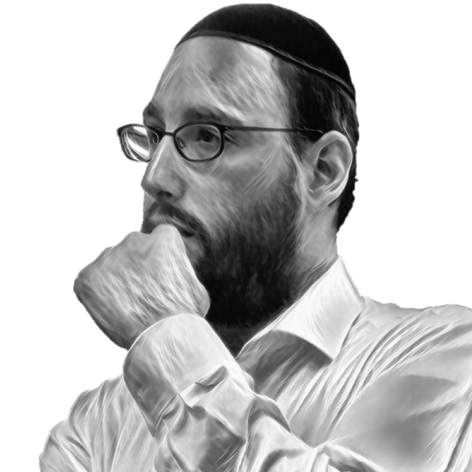
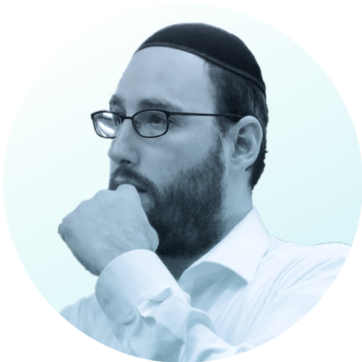
Changed photo, hide column on mobile

diff --git a/src/template/skills-business.html b/src/template/skills-business.html
@@ -2,7 +2,7 @@
   <div class="container">
     <h3 class="text-center">Skills by Business Anatomy</h3>
     <div class="skills-grid mt-32">
-      <div class="skills-inner-grid">
+      <div class="skills-inner-grid d-none d-md-grid">
         <div class="skills-block skills-block--pale">
           <h4>Strategic</h4>
           <div class="skills-block__body">

diff --git a/src/assets/stylesheets/_components/_styles.scss b/src/assets/stylesheets/_components/_styles.scss
@@ -261,3 +261,12 @@ body{
 #skills{
   height: 1px;
 }
+
+.d-none{
+  display: none;
+}
+.d-md-grid{
+  @include respond-to(sm_up){
+    display: grid;
+  }
+}
